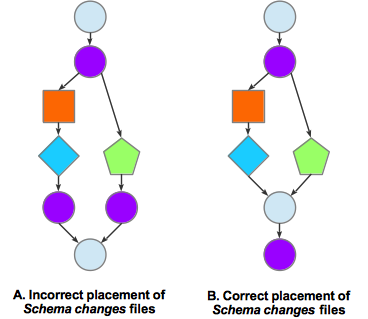
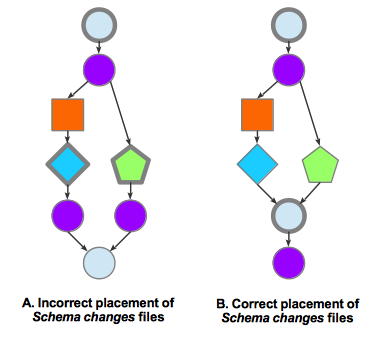
try python

diff --git a/docs/migration.rst b/docs/migration.rst
@@ -259,9 +259,9 @@ Topological sort of schema changes
 ------------------------------------
 Migration of a data file executes this algorithm:
 
-.. code-block:: none
+.. code-block:: python
 
-    migrate_file(existing_filename, migrated_filename, schema_repo):
+    def migrate_file(existing_filename, migrated_filename, schema_repo):
         # get_schema_commit() reads the Schema repo metadata in the data file
         starting_commit = get_schema_commit(existing_filename)
         schema_changes = schema_repo.get_dependent_schema_changes(starting_commit)
@@ -282,20 +282,20 @@ A `topological sort <https://en.wikipedia.org/wiki/Topological_sorting>`_ of a D
 sequence of nodes in the DAG such that if node X transitively depends on node Y in the DAG then X appears after Y in the sequence.
 Topological sorts are non-deterministic because node pairs that have no transitive
 dependency relationship in the DAG can appear in any order in the sequence.
-For example, a DAG with these edges: A |rarr| B |rarr| D, A |rarr| C |rarr| D, can be topologically sorted to
+For example, a DAG with the edges A |rarr| B |rarr| D, A |rarr| C |rarr| D, can be topologically sorted to
 either A |rarr| B |rarr| C |rarr| D or  A |rarr| C |rarr| B |rarr| D.
 
-Therefore, Schema changes files must be placed in the schema repo's commit dependency graph such that
+Schema changes files must therefore annotate commits in the schema repo's commit dependency graph such that
 *any* topological sort of them produces a legal migration.
 We illustrate incorrect and correct placement of Schema changes files in Figure :numref:`figure_schema_changes_topological_sort`.
 
 .. _figure_schema_changes_topological_sort:
 .. figure:: migration/figures/schema_changes_topological_sort.png
     :width: 600
-    :alt: Topological sort of schema changes commits
+    :alt: Placement of schema changes commits in 
 
-    Placement of schema changes commits.
-    This figure uses the same legend as Figure :numref:`figure_commit_dependencies`.
+    Placement of schema changes commits (this figure reuses the legend in
+    Figure :numref:`figure_commit_dependencies`).
     Migration topologically sorts the commits annotated by the schema changes files (indicated by thick outlines).
     In **A**, because the blue diamond commit and green pentagon commit have no dependency relationship in the
     Git commit DAG they can be sorted in either order.
@@ -333,6 +333,8 @@ Debugging migration
 ----------------------------------------------
 
 
+Creating schema changes files later
+^^^^^^^^^^^^^^^^^^^^^^^^^^^^^^^^^^^
 
 Limitations
 ----------------------------------------------
